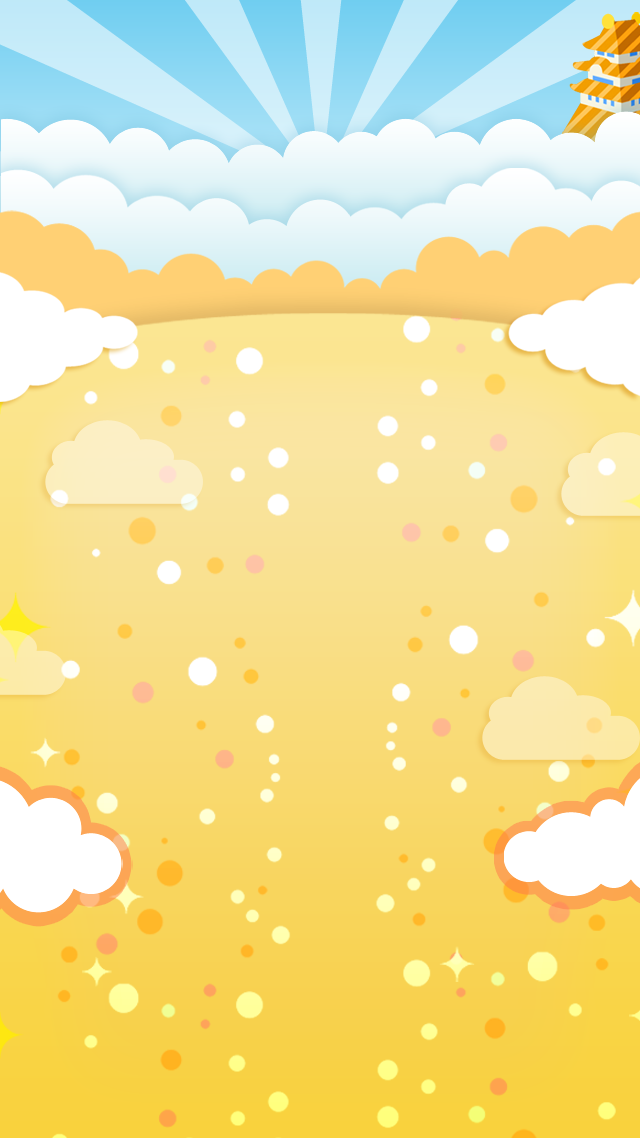
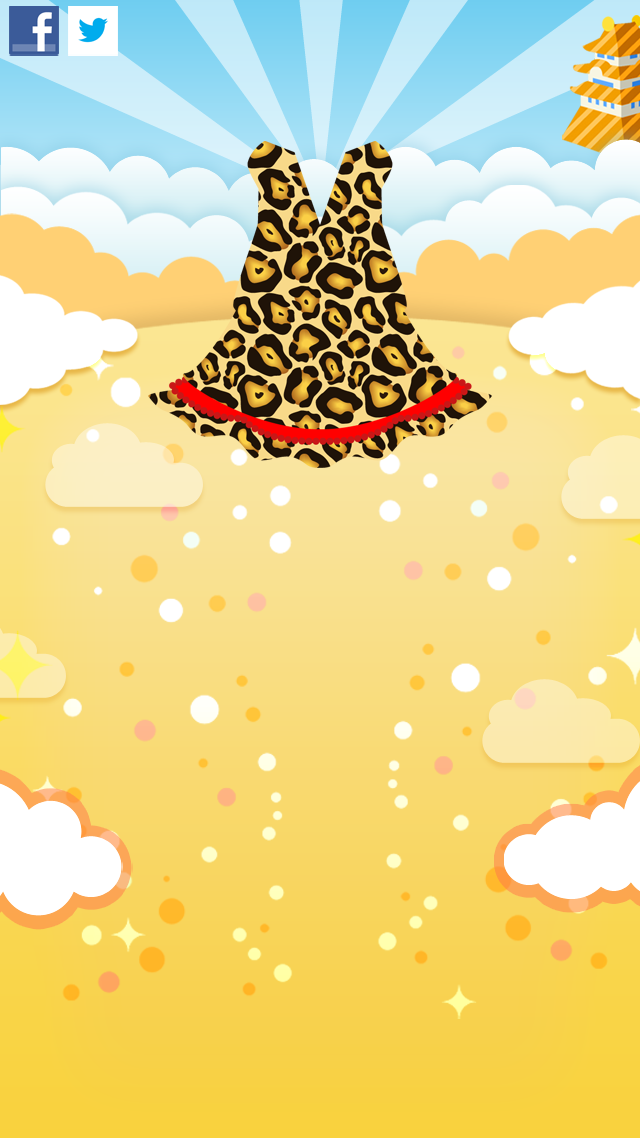
タイトル：新素材に変更＆アニメーション

diff --git a/www/title.js b/www/title.js
@@ -28,59 +28,34 @@ var SceenTitle = function() {
 	rootSceen.appendChild(sceen);
 	sceen.style.opacity = alpha;
 	
+	var animSprites = [];		//アニメーション処理呼び出しスプライト
+	
 	//BG
 	var bg = new DivSprite(640,1138);
 	bg.basePos={x:0, y:0};
 	bg.x=0; bg.y=0; bg.z=0;
-	bg.src = "img/title/h_h00_bgd_a/h_h00_bgd_a_00000.png";
+	bg.src = "img/01_title/t_bgd_a.png";
 	sceen.appendChild(bg.div);
 	
 	//ロゴ
-	var logo = new DivSprite(445,186);
-	logo.x=90+(445/2); logo.y=180+(186/2); logo.z=3;
-	logo.src = "img/title/t_rgo_a000.png";
+	var logo = new DivSprite(344,89);
+	logo.x=90+(445/2); logo.y=180+(186/2); logo.z=5;
+	logo.src = "img/01_title/t_rgo_a000.png";
+	logo.alpha = 0;
+	logo.animAlpha = [0,10, 1,4, 1,-1];
+	logo.scale = 2;
+	logo.animScale = [2,10, 1,4, 1.1,1, 1,1, 1.05,1, 1,-1];
 	sceen.appendChild(logo.div);
+	animSprites.push(logo);
 	
 	//女神
-	var megami = new DivSprite(316,452);
-	megami.x=160+(316/2); megami.y=-20+(452/2); megami.z=2;
-	megami.src = "img/title/t_meg_a/t_meg_a_00000.png";
+	var megami = new DivSprite(150,432);
+	megami.x=320; megami.y=166; megami.z=2;
+	megami.src = "img/01_title/t_bgd_a000.png";
+	megami.anim = [0,40, 1,40];
 	sceen.appendChild(megami.div);
-	
-	
-/*	 <img id="nasu" src="img/title/t_nas_a/t_nas_a_00000.png"></img>
-     <img id="ninjin" src="img/title/t_nin_a/t_nin_a_00000.png"></img>
-     <img id="piman" src="img/title/t_pii_a/t_pii_a_00000.png"></img>
-     <img id="tomato" src="img/title/t_tom_a/t_tom_a_00000.png"></img>
-*/
-
-	//ごはん
-	var gohan = new DivSprite(266,228);
-	gohan.x=20+(266/2); gohan.y=420+(228/2); gohan.z=2;
-	gohan.src = "img/title/t_btn_a000.png";
-	gohan.onclick = function(){
-		event.preventDefault();
-		next = NEXT.GOHAN;
-	};
-	sceen.appendChild(gohan.div);
-	
-	//スタンプ
-	var stamp = new DivSprite(258,224);
-	stamp.x=360+(258/2); stamp.y=420+(224/2); stamp.z=2;
-	stamp.src = "img/title/t_btn_b000.png";
-	stamp.onclick = function() {
-		event.preventDefault();
-		//document.location="StampSelect.html";	
-		next = NEXT.STAMP;	
-	};
-	sceen.appendChild(stamp.div);
-	
-	
-	//あそびかた
-	var help = new DivSprite(220,194);
-	help.x=40+(220/2); help.y=650+(194/2); help.z=2;
-	help.src = "img/title/t_btn_c000.png";
-	help.onclick = function(){
+	animSprites.push(megami);
+	megami.onclick = function(){
 		event.preventDefault();
 		window.localStorage.removeItem("CntGochi");
 		window.localStorage.removeItem("CntCoin");
@@ -93,17 +68,71 @@ var SceenTitle = function() {
 		DummyStampDataSet();
 		alert("ごちそうさました回数、スタンプデータをリセットしました。");
 	};
-	sceen.appendChild(help.div);
+	
+	//キャラクター
+	var charaData=[
+		{x:190,	y:180,	scale:0.95,	rot:-23,	anim:[ 1,20,  0,2,  1,2,  0,2]	},	//ピーマン
+		{x:578,	y:185,	scale:0.95,	rot:0,		anim:[ 3,40,  2,2,  3,2,  2,2]	},	//なす
+		{x:482,	y:58,	scale:0.95,	rot:5,		anim:[ 5,26,  4,2,  5,2,  4,2]	},	//トマト
+		{x:73,	y:331,	scale:0.95,	rot:-24,	anim:[ 7,18,  6,2,  7,2,  6,2]	},	//にく
+		{x:571,	y:340,	scale:0.95,	rot:12,		anim:[ 9,23,  8,2,  9,2,  8,2]	},	//しいたけ
+		{x:184,	y:59,	scale:0.95,	rot:15,		anim:[11,30, 10,2, 11,2, 10,2]	},	//たまねぎ
+		{x:459,	y:190,	scale:0.95,	rot:13,		anim:[13,28, 12,2, 13,2, 12,2]	},	//にんじん
+		{x:65,	y:183,	scale:0.95,	rot:0,		anim:[15,32, 14,2, 15,2, 14,2]	},	//さかな
+	];
+	
+	var chara = {};
+	
+	for (var i=0; i<charaData.length; i++) {
+		chara[i] = new DivSprite(2704/16,180);
+		chara[i].src = "img/00_common/k_zen_a.png"
+		chara[i].x = charaData[i].x;
+		chara[i].y = charaData[i].y;
+		chara[i].z = 3;
+		chara[i].scale = charaData[i].scale;
+		chara[i].anim = charaData[i].anim;
+		chara[i].alpha = 1;
+		chara[i].rotate = charaData[i].rot;
+		sceen.appendChild(chara[i].div);
+		animSprites.push(chara[i]);
+	}
+	
+	
+	//ごはん
+	var gohan = new DivSprite(286,238);
+	gohan.x=150; gohan.y=541; gohan.z=2;
+	gohan.src = "img/01_title/t_btn_a000.png";
+	gohan.animScale = [1,10, 1.1,2, 1,2, 1,10, 1,10];
+	gohan.onclick = function(){
+		event.preventDefault();
+		next = NEXT.GOHAN;
+	};
+	sceen.appendChild(gohan.div);
+	animSprites.push(gohan);
+	
+	//スタンプ
+	var stamp = new DivSprite(286,238);
+	stamp.x=490; stamp.y=541; stamp.z=2;
+	stamp.src = "img/01_title/t_btn_b000.png";
+	stamp.animScale = [1,10, 1,10, 1.1,2, 1,2, 1,10];
+	stamp.onclick = function(){
+		event.preventDefault();
+		next = NEXT.STAMP;
+	};
+	sceen.appendChild(stamp.div);
+	animSprites.push(stamp);
 	
 	//ショップ
-	var shop = new DivSprite(220,196);
-	shop.x=360+(220/2); shop.y=650+(196/2); shop.z=2;
-	shop.src = "img/title/t_btn_d000.png";
-	shop.onclick = function() {
+	var shop = new DivSprite(286,238);
+	shop.x=320; shop.y=722; shop.z=2;
+	shop.src = "img/01_title/t_btn_d000.png";
+	shop.animScale = [1,10, 1,10, 1,10, 1.1,2, 1,2];
+	shop.onclick = function(){
 		event.preventDefault();
 		next = NEXT.SHOP;
 	};
 	sceen.appendChild(shop.div);
+	animSprites.push(shop);
 	
 	// コインのロード処理
 	LoadCoin();
@@ -197,6 +226,12 @@ var SceenTitle = function() {
 				}
 				break;
 		}
+		
+		if (st != STATUS.END) {
+			//アニメーション処理
+			animSprites.forEach(function(s){ s.animExec(); });
+		}
+		
 	};
 	
 };

diff --git a/www/lib/common.js b/www/lib/common.js
@@ -76,6 +76,7 @@ var DivSprite = function(w,h) {
 	this._basePos = {x:w/2,y:h/2};
 	this._scale = 1;
 	this._alpha = 1;
+	this,_rotate = 0;
 	this._anim = null;
 	this._animScale = null;
 	this._animPos = null;
@@ -134,6 +135,12 @@ DivSprite.prototype = {
 	set alpha(a) {
 		this._alpha = a;
 		this.div.style.opacity = a;
+	},
+	//rotate 回転角
+	get rotate() { return this._rotate; },
+	set rotate(a) {
+		this._rotate = a;
+		this.div.style.webkitTransform = 'rotate('+a+'deg)';
 	},
 	//src
 	set src(a) {

diff --git a/www/index.html b/www/index.html
@@ -44,7 +44,7 @@
     <body onload = "onLoadIndex()">
     	<div id="sceen"></div>
 	<div id="version">
-		version 0.0.29
+		version 0.0.30
 	</div>
 	<div id="memory">
 	</div>
